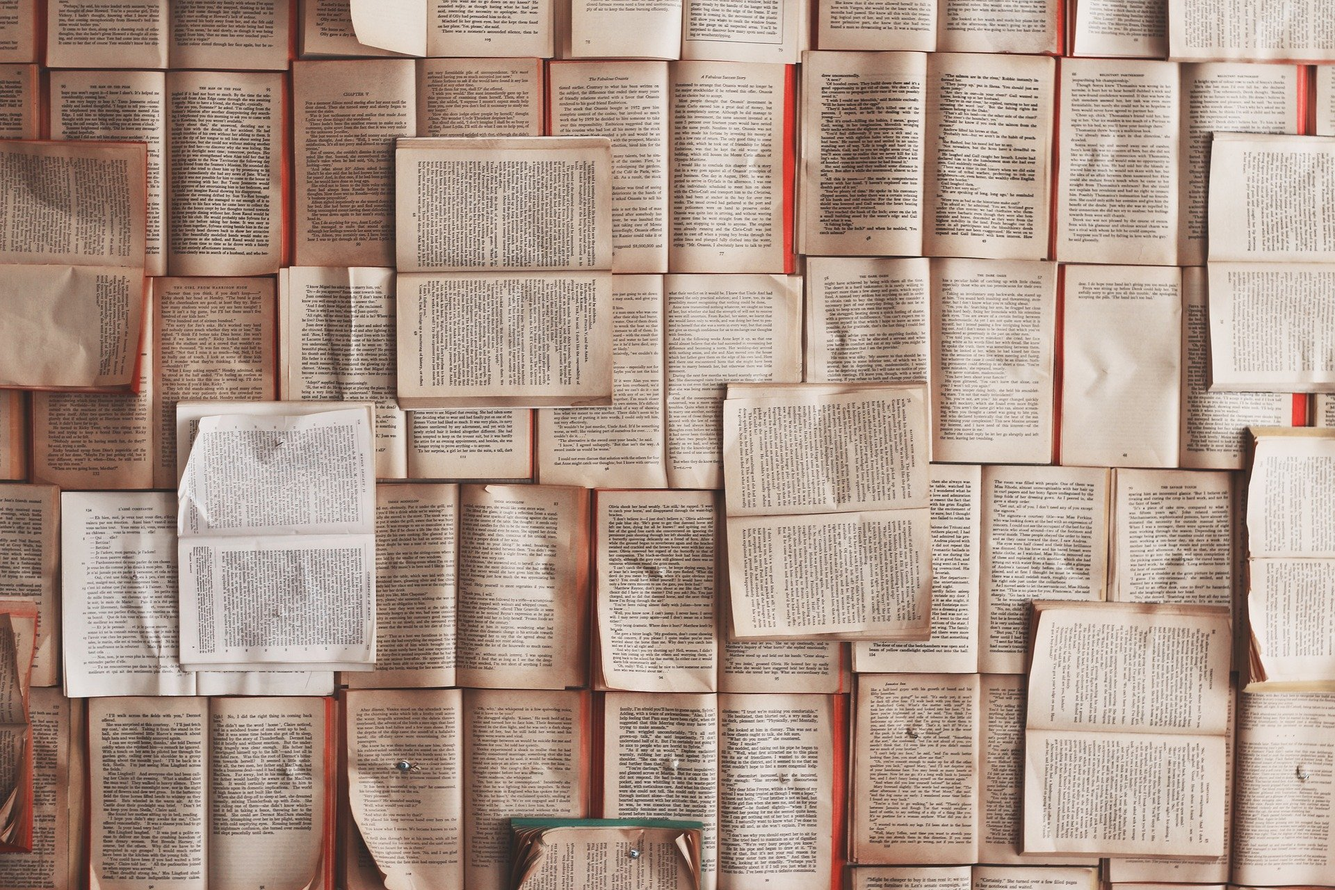
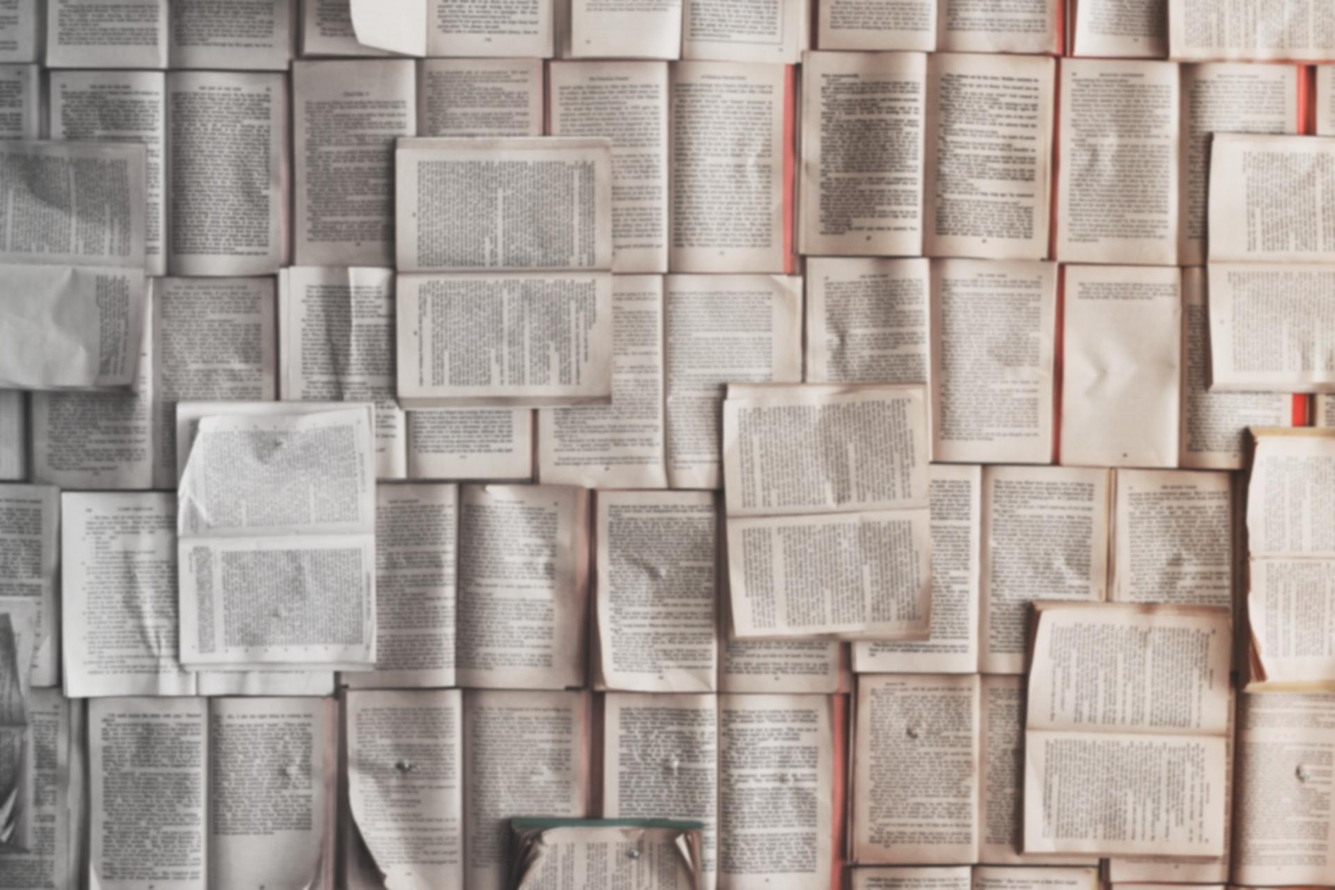
Changed background pic

diff --git a/web_GUI/style.css b/web_GUI/style.css
@@ -21,6 +21,11 @@ body {
     z-index: -1;
 }
 
+.blur {
+    background-size: cover;
+    filter: blur(15px);
+}
+
 header {
     height: 8em;
     color: black;
@@ -55,10 +60,10 @@ a:active {
 
 .title__heading {
     font-size: 32px;
-    font-weight: normal;
     padding-bottom: 11px;
 }
 
 .title__text {
     font-size: 18px;
+    padding-bottom: 84px;
 }

diff --git a/web_GUI/index.html b/web_GUI/index.html
@@ -10,7 +10,9 @@
 	<link href="https://fonts.googleapis.com/css2?family=Merriweather&display=swap" rel="stylesheet">
 </head>
 <body>
+	<div class="blur"></div>
 	<div class="gradient"></div>
+
 	<header>
 		<nav>
 			<a href="#">Список книг</a>
